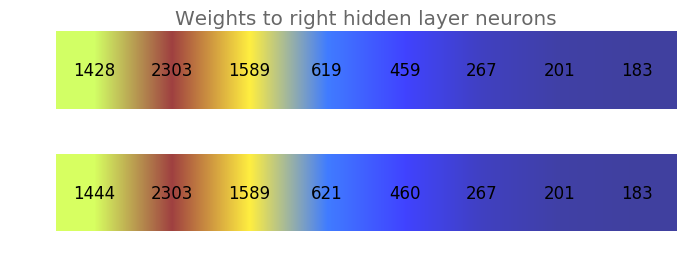
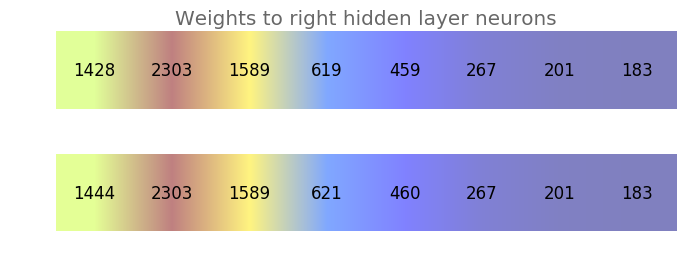
Plotted performance and weights, changed plotting functions

diff --git a/Controller/Hidden_separated/plot_weights_hidden.py b/Controller/Hidden_separated/plot_weights_hidden.py
@@ -26,7 +26,7 @@ for i in range(hidden_neurons_per_side):
     if(i == 0):
         ax.set_title('Weights to left hidden layer neurons', color='0.4')
     current_weights = weights_hidden_l[i,:,:]
-    plt.imshow(current_weights, alpha=0.75)
+    plt.imshow(current_weights, alpha=0.5)
     plt.axis('off')
     for (j,i),label in np.ndenumerate(current_weights):
     	ax.text(i,j,int(label),ha='center',va='center')
@@ -41,7 +41,7 @@ for i in range(hidden_neurons_per_side):
     if(i == 0):
         ax.set_title('Weights to right hidden layer neurons', color='0.4')
     current_weights = weights_hidden_r[i,:,:]
-    plt.imshow(current_weights, alpha=0.75)
+    plt.imshow(current_weights, alpha=0.5)
     plt.axis('off')
     for (j,i),label in np.ndenumerate(current_weights):
     	ax.text(i,j,int(label),ha='center',va='center')

diff --git a/Controller/Regular/plot_weights_lr.py b/Controller/Regular/plot_weights_lr.py
@@ -26,14 +26,14 @@ plt.title('Final left weights', color='0.4', fontsize='10')
 plt.imshow(weights_l, alpha=0.5)
 plt.axis('off')
 for (j,i),label in np.ndenumerate(weights_l):
-	ax1.text(i,j,int(label),ha='center',va='center')
+	ax1.text(i,j,int(label),ha='center',va='center', size='10')
 
 ax2 = plt.subplot(412)
 plt.title('Final right weights', color='0.4', fontsize='10')
 plt.imshow(weights_r, alpha=0.5)
 plt.axis('off')
 for (j,i),label in np.ndenumerate(weights_r):
-	ax2.text(i,j,int(label),ha='center',va='center')
+	ax2.text(i,j,int(label),ha='center',va='center', size='10')
 
 ax3 = plt.subplot(413)
 ax3.set_title('Weights to left neuron', color='0.4', size='10')

diff --git a/Controller/Hidden_not_separated/plot_performance.py b/Controller/Hidden_not_separated/plot_performance.py
@@ -99,7 +99,7 @@ plt.hist(dist_to_middle3, bins=b, normed=True, color='y', linewidth=0, orientati
 # fig.tight_layout()
 plt.setp(ax1.get_xticklabels(), visible=False)
 plt.setp(ax3.get_xticklabels(), visible=False)
-filename = 'performance_regular.png'
-filepath = '../../plots/' + filename
+filename = 'performance.png'
+filepath = '../../plots/hidden_not_separated/' + filename
 plt.savefig(filepath, bbox_inches='tight')
 plt.show(filepath)

diff --git a/Controller/Hidden_separated/plot_performance.py b/Controller/Hidden_separated/plot_performance.py
@@ -99,7 +99,7 @@ plt.hist(dist_to_middle3, bins=b, normed=True, color='y', linewidth=0, orientati
 # fig.tight_layout()
 plt.setp(ax1.get_xticklabels(), visible=False)
 plt.setp(ax3.get_xticklabels(), visible=False)
-filename = 'performance_regular.png'
-filepath = '../../plots/' + filename
+filename = 'performance.png'
+filepath = '../../plots/hidden_separated/' + filename
 plt.savefig(filepath, bbox_inches='tight')
 plt.show(filepath)

diff --git a/Controller/Hidden_not_separated/plot_weights_hidden.py b/Controller/Hidden_not_separated/plot_weights_hidden.py
@@ -24,7 +24,7 @@ for i in range(hidden_neurons):
     if(i == 0):
         ax.set_title('Weights to hidden layer neurons', color='0.4')
     current_weights = weights_hidden[i,:,:]
-    plt.imshow(current_weights, alpha=0.75)
+    plt.imshow(current_weights, alpha=0.5)
     plt.axis('off')
     for (j,i),label in np.ndenumerate(current_weights):
     	ax.text(i,j,int(label),ha='center',va='center')

diff --git a/Controller/Hidden_not_separated/parameters.py b/Controller/Hidden_not_separated/parameters.py
@@ -3,7 +3,7 @@
 import numpy as np
 import math
 
-session_no = '003'
+session_no = '001'
 path = "../../data_hidden_not_separated/session_" + session_no        # Path for saving data
 comment = ''
 

diff --git a/Controller/Hidden_separated/parameters.py b/Controller/Hidden_separated/parameters.py
@@ -3,7 +3,7 @@
 import numpy as np
 import math
 
-session_no = '001'
+session_no = '003'
 path = "../../data_hidden_separated/session_" + session_no        # Path for saving data
 comment = ''
 
